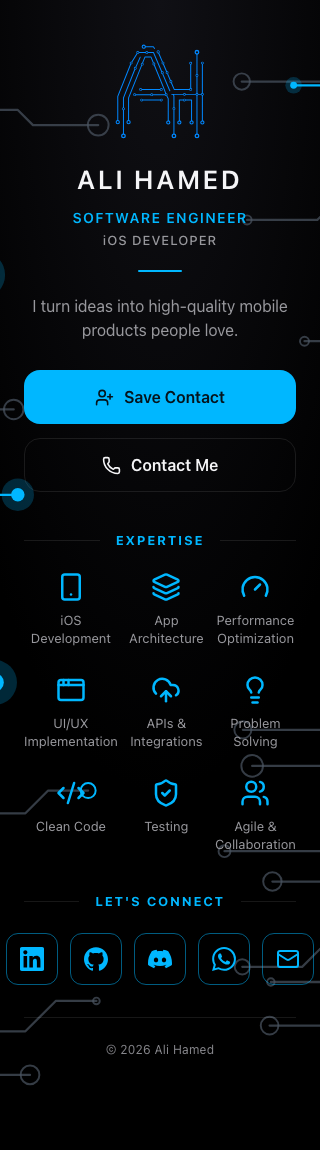
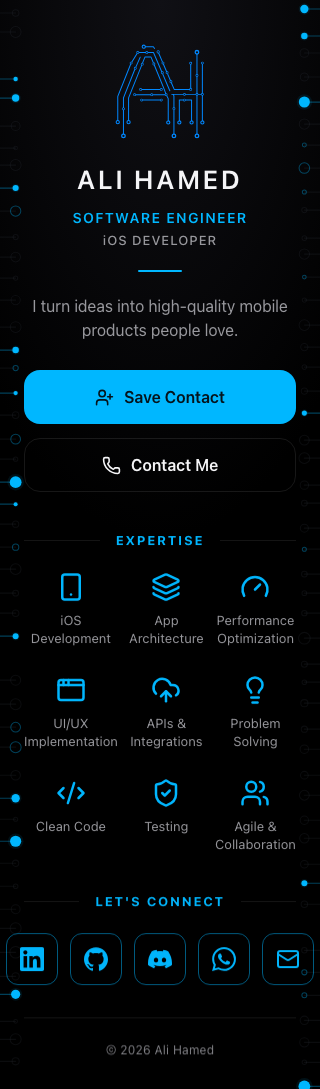
fix: keep the circuit-trace motif clear of the content column
The circuit background was crossing text, icons and buttons at every
tested width, with large glowing lit nodes intruding into the content
column from the left edge. Root causes:

- The motif's only "clear" zone was a fixed 14%-of-canvas-width band
  around the horizontal midpoint — far too narrow for a content column
  that spans nearly the full viewport on a phone.
- `.circuit` was `position: fixed`, tiled behind scrolling content, so
  a full-page capture (or a tall viewport) forced `preserveAspectRatio`
  to zoom/crop in ways that had nothing to do with where real content
  actually sat.
- Two independent "don't make traces absurdly short" floors inside the
  generator could silently push a trace (or a lit node's glow) past
  whatever clear boundary was requested.

Fixes:

- circuit.mjs: added an opt-in `contentClearX` exclusion zone (plus
  `glowOpacity`, `glowRadiusMultiplier`, `accentStrokeOpacity` knobs),
  fully backward-compatible — every existing default is unchanged, so
  all prior callers/tests are unaffected. Fixed the two length floors
  so a caller-supplied reach is always a hard cap, never overshot.
- site.mjs: renderCircuitBackground() now keys contentClearX to the
  page's real 24px content padding, and dials the motif down to a
  quiet, low-contrast texture matching the approved reference.
- styles.css: `.circuit` is now `position: absolute` (was `fixed`), so
  its local SVG coordinates map one-to-one onto the real, full-height
[…]

diff --git a/docs/index.html b/docs/index.html
@@ -26,7 +26,7 @@
 </head>
 <body>
 
-<div class="circuit"><svg xmlns="http://www.w3.org/2000/svg" preserveAspectRatio="xMidYMid slice" viewBox="0 0 390 844" role="img" aria-hidden="true"><g fill="none" stroke="#4B5563" stroke-width="1.2" stroke-opacity="0.7" stroke-linecap="round" stroke-linejoin="round"><path d="M0,13 L48,13 L60,1 L101.68002867579281,1" /><path d="M0,34 L48,34 L72,58 L120,58 L128,66 L162.4087724790377,66" /><path d="M0,56 L32,56 L44,44 L63.13527300221965,44" /><path d="M0,81 L32,81 L48,97 L68.77233359673589,97" /><path d="M0,100 L32,100 L48,116 L79.59656400065313,116" /><path d="M0,146 L32,146 L48,162 L70.77457107601091,162" /><path d="M0,169 L48,169 L64,185 L87.66577344656676,185" /><path d="M0,192 L56,192 L80,216 L117.82783785376105,216" /><path d="M0,282 L24,282 L40,266 L65.10471526400747,266" /><path d="M0,304 L32,304 L44,316 L67.70027021493108,316" /><path d="M0,322 L32,322 L48,338 L68.24823574767694,338" /><path d="M0,344 L32,344 L44,356 L70.55784634212911,356" /><path d="M0,391 L24,391 L40,375 L59.48062174079178,375" /><path d="M0,417 L64,417 L76,429 L124,429 L136,417 L157.0993279533194,417" /><path d="M0,435 L24,435 L40,419 L59.053062526052074,419" /><path d="M0,525 L40,525 L56,509 L78.6251532176886,509" /><path d="M0,551 L56,551 L72,567 L126.43009460040136,567" /><path d="M0,572 L48,572 L76,544 L124,544 L140,528 L161.44541232339952,528" /><path d="M0,592 L32,592 L44,580 L68,580 L76,572 L100.01812639110477,572" /><path d="M0,615 L24,615 L40,599 L62.82200495640864,599" /><path d="M0,636 L24,636 L36,648 L61.57691099579882,648" /><path d="M0,682 L40,682 L52,670 L84,670 L96,658 L117.03740299416715,658" /><path d="M0,708 L48,708 L64,692 L90.77275442222866,692" /><path d="M0,729 L48,729 L72,705 L92.66400030002656,705" /><path d="M0,749 L24,749 L40,733 L61.16180255088314,733" /><path d="M0,770 L32,770 L48,786 L80,786 L96,802 L115.39154656606121,802" /><path d="M0,793 L80,793 L92,805 L138.87233203641065,805" /><path d="M0,819 L40,819 L64,843 L90.8379831179431,843" /><path d="M0,839 L24,839 L36,851 L58.98665766346806,851" /><path d="M390,31 L358,31 L346,43 L325.4344848814311,43" /><path d="M390,55 L294,55 L282,43 L238.1186493660371,43" /><path d="M390,76 L342,76 L330,64 L298.92092453828434,64" /><path d="M390,124 L350,124 L334,108 L286,108 L278,116 L240.93530492513494,116" /><path d="M390,144 L342,144 L326,128 L300.6079686983694,128" /><path d="M390,168 L350,168 L326,192 L302,192 L290,180 L271.225802693519,180" /><path d="M390,187 L366,187 L354,199 L328.51616354389085,199" /><path d="M390,214 L366,214 L354,202 L330.1159570296989,202" /><path d="M390,233 L366,233 L354,221 L330.0409536912923,221" /><path d="M390,255 L358,255 L342,239 L319.8644474557856,239" /><path d="M390,281 L368.3270936150125,281 L360.3270936150125,289 L338.72709361501245,289 L330.72709361501245,281 L309.1270936150124,281" /><path d="M390,301 L358,301 L334,325 L306.38296795203433,325" /><path d="M390,369 L318,369 L302,385 L238.71934879735548,385" /><path d="M390,392 L302,392 L290,404 L243.62037618640633,404" /><path d="M390,414 L366,414 L354,426 L330.1109581218503,426 L322.1109581218503,434 L300.5109581218503,434" /><path d="M390,437 L302,437 L290,449 L229.025153552216,449" /><path d="M390,458 L350,458 L334,474 L309.9089230381595,474" /><path d="M390,478 L334,478 L314,498 L282,498 L270,510 L238.4049333150329,510" /><path d="M390,501 L350,501 L330,481 L298,481 L282,465 L254.29032274233208,465" /><path d="M390,526 L318,526 L310,518 L253.4842818629594,518" /><path d="M390,546 L342,546 L326,530 L303.7778480578015,530" /><path d="M390,569 L342,569 L326,553 L294,553 L282,541 L252.81751682831197,541" /><path d="M390,595 L342,595 L326,611 L298.97113576691345,611" /><path d="M390,619 L350,619 L330,639 L282,639 L270,627 L249.42478017400705,627" /><path d="M390,637 L358,637 L346,625 L318.5731716918707,625" /><path d="M390,680 L358,680 L334,656 L310,656 L298,644 L276.5433775155725,644" /><path d="M390,771 L358,771 L346,783 L309.763299342389,783" /><path d="M390,792 L334,792 L314,812 L263.02671227780417,812" /><path d="M390,817 L366,817 L346,837 L327.64220352223685,837" /><path d="M390,837 L350,837 L326,813 L300.9642817178028,813" /></g><g fill="none" stroke="#00B7FF" stroke-width="1.2" stroke-opacity="1" stroke-linecap="round" stroke-linejoin="round"><path d="M0,125 L56,125 L76,145 L100.70459883165658,145" /><path d="M0,233 L56,233 L84,261 L119.99354950564967,261" /><path d="M0,257 L40,257 L60,237 L88.92715002599024,237" /><path d="M0,368 L32,368 L52,348 L76,348 L88,360 L107.65614486288821,360" /><path d="M0,484 L40,484 L64,460 L91.77081584373043,460" /><path d="M0,506 L40,506 L52,518 L74.54682166366334,518" /><path d="M390,13 L350,13 L334,29 L302,29 L286,45 L265.49566458964307,45" /><path d="M390,349 L366,349 L354,337 L330,337 L322,345 L299.0466862090246,345" /><path d="M390,659 L302,659 L278,683 L259.2718732590201,683" /><path d="M390,706 L358,706 L342,722 L318,722 L306,734 L283.1608845693968,734" /><path d="M390,729 L358,729 L346,717 L325.57129348068736,717" /><path d="M390,748 L366,748 L354,736 L330.39174795192656,736" /></g><g fill="none" stroke="#4B5563" stroke-width="1.02" stroke-opacity="0.7"><circle cx="101.68002867579281" cy="1" r="3.9817908082902433" /><circle cx="162.4087724790377" cy="66" r="5.481969150424004" /><circle cx="63.13527300221965" cy="44" r="4.559958035230637" /><circle cx="68.77233359673589" cy="97" r="4.858938260525465" /><circle cx="79.59656400065313" cy="116" r="3.10109965762496" /><circle cx="70.77457107601091" cy="162" r="5.721537094652653" /><circle cx="87.66577344656676" cy="185" r="1.9829204328954222" /><circle cx="117.82783785376105" cy="216" r="5.140294172376394" /><circle cx="65.10471526400747" cy="266" r="5.798433054953814" /><circle cx="67.70027021493108" cy="316" r="3.9155605636239055" /><circle cx="68.24823574767694" cy="338" r="2.444076717138291" /><circle cx="70.55784634212911" cy="356" r="4.701549120694399" /><circle cx="59.48062174079178" cy="375" r="4.771910970389843" /><circle cx="59.053062526052074" cy="419" r="4.15421268850565" /><circle cx="78.6251532176886" cy="509" r="3.6985391626060014" /><circle cx="126.43009460040136" cy="567" r="4.943842837303877" /><circle cx="161.44541232339952" cy="528" r="1.7548870980441573" /><circle cx="100.01812639110477" cy="572" r="3.403082094848156" /><circle cx="62.82200495640864" cy="599" r="2.0439908123016357" /><circle cx="61.57691099579882" cy="648" r="3.682407308399678" /><circle cx="117.03740299416715" cy="658" r="4.720102139979602" /><circle cx="90.77275442222866" cy="692" r="4.4491424416601655" /><circle cx="92.66400030002656" cy="705" r="4.9883288137614725" /><circle cx="61.16180255088314" cy="733" r="2.8103994549214844" /><circle cx="115.39154656606121" cy="802" r="2.194100426226855" /><circle cx="138.87233203641065" cy="805" r="2.268632407665253" /><circle cx="90.8379831179431" cy="843" r="5.063935682058335" /><circle cx="58.98665766346806" cy="851" r="2.608212028741837" /><circle cx="325.4344848814311" cy="43" r="5.293011171698571" /><circle cx="238.1186493660371" cy="43" r="4.310792294293642" /><circle cx="298.92092453828434" cy="64" r="3.6217194148600105" /><circle cx="240.93530492513494" cy="116" r="2.3817786117196085" /><circle cx="300.6079686983694" cy="128" r="2.152133527815342" /><circle cx="271.225802693519" cy="180" r="2.3667143204212193" /><circle cx="328.51616354389085" cy="199" r="3.9692782317101956" /><circle cx="330.1159570296989" cy="202" r="5.192645388185978" /><circle cx="330.0409536912923" cy="221" r="4.295014541834593" /><circle cx="319.8644474557856" cy="239" r="3.7222315987050534" /><circle cx="309.1270936150124" cy="281" r="3.913470296144486" /><circle cx="306.38296795203433" cy="325" r="5.255108654737473" /><circle cx="238.71934879735548" cy="385" r="4.51102661061287" /><circle cx="243.62037618640633" cy="404" r="5.703381033092738" /><circle cx="300.5109581218503" cy="434" r="4.485425145059825" /><circle cx="229.025153552216" cy="449" r="3.1411987853944305" /><circle cx="309.9089230381595" cy="474" r="2.129527950435877" /><circle cx="238.4049333150329" cy="510" r="4.00273092404008" /><circle cx="254.29032274233208" cy="465" r="4.8618117255270485" /><circle cx="253.4842818629594" cy="518" r="1.9672340650856497" /><circle cx="303.7778480578015" cy="530" r="2.5454588972032073" /><circle cx="252.81751682831197" cy="541" r="4.674030567079783" /><circle cx="298.97113576691345" cy="611" r="3.702675475537777" /><circle cx="249.42478017400705" cy="627" r="5.160988283246756" /><circle cx="318.5731716918707" cy="625" r="5.4984487393498425" /><circle cx="276.5433775155725" cy="644" r="3.228817877680063" /><circle cx="309.763299342389" cy="783" r="3.487708266109229" /><circle cx="327.64220352223685" cy="837" r="5.409841947376729" /><circle cx="300.9642817178028" cy="813" r="2.2512800058424474" /></g><g fill="none" stroke="#00B7FF" stroke-width="1.02" stroke-opacity="1"><circle cx="157.0993279533194" cy="417" r="3.9668029183745386" /><circle cx="263.02671227780417" cy="812" r="5.64076228183508" /></g><g fill="#00B7FF" fill-opacity="0.22"><circle cx="100.70459883165658" cy="145" r="12.57965699365139" /><circle cx="119.99354950564967" cy="261" r="8.533815516901017" /><circle cx="88.92715002599024" cy="237" r="6.750373939204216" /><circle cx="107.65614486288821" cy="360" r="11.897380666351319" /><circle cx="91.77081584373043" cy="460" r="5.638164158034325" /><circle cx="74.54682166366334" cy="518" r="11.201690292048456" /><circle cx="265.49566458964307" cy="45" r="4.371685996055603" /><circle cx="299.0466862090246" cy="345" r="6.24049211704731" /><circle cx="259.2718732590201" cy="683" r="11.863928885507587" /><circle cx="283.1608845693968" cy="734" r="9.360875940585135" /><circle cx="325.57129348068736" cy="717" r="4.228054486298562" /><circle cx="330.39174795192656" cy="736" r="5.182904692912102" /></g><g fill="#00B7FF"><circle cx="100.70459883165658" cy="145" r="5.241523747354746" /><circle cx="119.99354950564967" cy="261" r="3.555756465375424" /><circle cx="88.92715002599024" cy="237" r="2.812655808001757" /><circle cx="107.65614486288821" cy="360" r="4.95724194431305" /><circle cx="91.77081584373043" cy="460" r="2.3492350658476355" /><circle cx="74.54682166366334" cy="518" r="4.66737095502019" /><circle cx="265.49566458964307" cy="45" r="1.8215358316898347" /><circle cx="299.0466862090246" cy="345" r="2.6002050487697126" /><circle cx="259.2718732590201" cy="683" r="4.943303702294828" /><circle cx="283.1608845693968" cy="734" r="3.9003649752438068" /><circle cx="325.57129348068736" cy="717" r="1.7616893692910673" /><circle cx="330.39174795192656" cy="736" r="2.159543622046709" /></g></svg></div>
+<div class="circuit"><svg xmlns="http://www.w3.org/2000/svg" preserveAspectRatio="xMidYMid slice" viewBox="0 0 320 1089" role="img" aria-hidden="true"><g fill="none" stroke="#4B5563" stroke-width="1.2" stroke-opacity="0.14" stroke-linecap="round" stroke-linejoin="round"><path d="M0,13 L15.684,13" /><path d="M0,32 L15.684,32" /><path d="M0,126 L15.684,126" /><path d="M0,148 L15.684,148" /><path d="M0,165 L15.684,165" /><path d="M0,211 L15.684,211" /><path d="M0,237 L15.684,237" /><path d="M0,257 L15.684,257" /><path d="M0,278 L15.684,278" /><path d="M0,300 L15.684,300" /><path d="M0,327 L15.684,327" /><path d="M0,368 L15.684,368" /><path d="M0,415 L15.684,415" /><path d="M0,439 L15.684,439" /><path d="M0,459 L15.684,459" /><path d="M0,524 L15.684,524" /><path d="M0,547 L15.684,547" /><path d="M0,569 L15.684,569" /><path d="M0,593 L15.684,593" /><path d="M0,613 L15.684,613" /><path d="M0,680 L15.684,680" /><path d="M0,704 L15.684,704" /><path d="M0,727 L15.684,727" /><path d="M0,747 L15.684,747" /><path d="M0,775 L15.684,775" /><path d="M0,819 L15.684,819" /><path d="M0,863 L15.684,863" /><path d="M0,886 L15.684,886" /><path d="M0,909 L15.684,909" /><path d="M0,928 L15.684,928" /><path d="M0,952 L15.684,952" /><path d="M0,976 L15.684,976" /><path d="M0,1021 L15.684,1021" /><path d="M0,1039 L15.684,1039" /><path d="M0,1061 L15.684,1061" /><path d="M320,53 L304.316,53" /><path d="M320,77 L304.316,77" /><path d="M320,124 L304.316,124" /><path d="M320,145 L304.316,145" /><path d="M320,168 L304.316,168" /><path d="M320,192 L304.316,192" /><path d="M320,210 L304.316,210" /><path d="M320,238 L304.316,238" /><path d="M320,254 L304.316,254" /><path d="M320,277 L304.316,277" /><path d="M320,300 L304.316,300" /><path d="M320,325 L304.316,325" /><path d="M320,347 L304.316,347" /><path d="M320,367 L304.316,367" /><path d="M320,391 L304.316,391" /><path d="M320,440 L304.316,440" /><path d="M320,458 L304.316,458" /><path d="M320,485 L304.316,485" /><path d="M320,503 L304.316,503" /><path d="M320,528 L304.316,528" /><path d="M320,549 L304.316,549" /><path d="M320,574 L304.316,574" /><path d="M320,593 L304.316,593" /><path d="M320,613 L304.316,613" /><path d="M320,638 L304.316,638" /><path d="M320,664 L304.316,664" /><path d="M320,682 L304.316,682" /><path d="M320,703 L304.316,703" /><path d="M320,729 L304.316,729" /><path d="M320,749 L304.316,749" /><path d="M320,775 L304.316,775" /><path d="M320,795 L304.316,795" /><path d="M320,820 L304.316,820" /><path d="M320,838 L304.316,838" /><path d="M320,864 L304.316,864" /><path d="M320,904 L304.316,904" /><path d="M320,950 L304.316,950" /><path d="M320,972 L304.316,972" /><path d="M320,995 L304.316,995" /><path d="M320,1020 L304.316,1020" /><path d="M320,1042 L304.316,1042" /><path d="M320,1062 L304.316,1062" /></g><g fill="none" stroke="#00B7FF" stroke-width="1.2" stroke-opacity="0.35" stroke-linecap="round" stroke-linejoin="round"><path d="M0,79 L15.684,79" /><path d="M0,98 L15.684,98" /><path d="M0,188 L15.684,188" /><path d="M0,350 L15.684,350" /><path d="M0,393 L15.684,393" /><path d="M0,482 L15.684,482" /><path d="M0,504 L15.684,504" /><path d="M0,636 L15.684,636" /><path d="M0,798 L15.684,798" /><path d="M0,841 L15.684,841" /><path d="M0,994 L15.684,994" /><path d="M320,9 L304.316,9" /><path d="M320,36 L304.316,36" /><path d="M320,102 L304.316,102" /><path d="M320,413 L304.316,413" /><path d="M320,883 L304.316,883" /><path d="M320,1086 L304.316,1086" /></g><g fill="none" stroke="#4B5563" stroke-width="1.02" stroke-opacity="0.14"><circle cx="15.684" cy="13" r="3.3071365234851835" /><circle cx="15.684" cy="32" r="5.408127812504769" /><circle cx="15.684" cy="126" r="4.484340687990189" /><circle cx="15.684" cy="148" r="1.7910568491518497" /><circle cx="15.684" cy="165" r="5.472939124614" /><circle cx="15.684" cy="237" r="2.5884640538692474" /><circle cx="15.684" cy="257" r="4.807083543062211" /><circle cx="15.684" cy="278" r="2.1082589237093927" /><circle cx="15.684" cy="300" r="4.626867743253709" /><circle cx="15.684" cy="327" r="5.444707045912742" /><circle cx="15.684" cy="415" r="3.2763067722022536" /><circle cx="15.684" cy="459" r="2.15952160102129" /><circle cx="15.684" cy="524" r="3.143829647362232" /><circle cx="15.684" cy="569" r="5.363363245636225" /><circle cx="15.684" cy="593" r="2.9090167930126194" /><circle cx="15.684" cy="613" r="3.277421800643206" /><circle cx="15.684" cy="680" r="5.015184781461954" /><circle cx="15.684" cy="704" r="5.436070772677661" /><circle cx="15.684" cy="775" r="4.761317828446627" /><circle cx="15.684" cy="819" r="2.0685557819902898" /><circle cx="15.684" cy="863" r="3.143334741264582" /><circle cx="15.684" cy="886" r="2.299623011469841" /><circle cx="15.684" cy="909" r="4.4504557763636114" /><circle cx="15.684" cy="928" r="5.498568041950465" /><circle cx="15.684" cy="952" r="5.797299343407154" /><circle cx="15.684" cy="976" r="3.6329535190165045" /><circle cx="15.684" cy="1021" r="1.838270763605833" /><circle cx="15.684" cy="1039" r="5.5137440522611145" /><circle cx="15.684" cy="1061" r="3.552745207428933" /><circle cx="304.316" cy="53" r="4.346409833103419" /><circle cx="304.316" cy="77" r="4.033861147105695" /><circle cx="304.316" cy="124" r="5.138403415918351" /><circle cx="304.316" cy="210" r="2.623242866098881" /><circle cx="304.316" cy="238" r="2.3798162748813634" /><circle cx="304.316" cy="254" r="5.13779839977622" /><circle cx="304.316" cy="300" r="2.106995860397816" /><circle cx="304.316" cy="325" r="5.335612830519676" /><circle cx="304.316" cy="347" r="3.6452402923107146" /><circle cx="304.316" cy="367" r="2.291789403676987" /><circle cx="304.316" cy="391" r="3.108966641664505" /><circle cx="304.316" cy="440" r="4.8357976590693" /><circle cx="304.316" cy="458" r="5.395229737669229" /><circle cx="304.316" cy="485" r="4.176309077739716" /><circle cx="304.316" cy="503" r="2.8588223886787896" /><circle cx="304.316" cy="528" r="4.001393023073674" /><circle cx="304.316" cy="574" r="2.819765031158924" /><circle cx="304.316" cy="593" r="2.3431158201098445" /><circle cx="304.316" cy="613" r="2.6681682913899425" /><circle cx="304.316" cy="638" r="5.820382678985596" /><circle cx="304.316" cy="664" r="2.995857643514872" /><circle cx="304.316" cy="682" r="2.3040789857804778" /><circle cx="304.316" cy="703" r="3.5932383002042774" /><circle cx="304.316" cy="729" r="3.100979522019625" /><circle cx="304.316" cy="749" r="4.2505998497307305" /><circle cx="304.316" cy="775" r="3.8567050129473217" /><circle cx="304.316" cy="795" r="4.898467903196812" /><circle cx="304.316" cy="820" r="4.1706182540953165" /><circle cx="304.316" cy="838" r="4.6663554180264475" /><circle cx="304.316" cy="864" r="3.800990423083306" /><circle cx="304.316" cy="904" r="3.2250318643748765" /><circle cx="304.316" cy="950" r="2.6766493071019655" /><circle cx="304.316" cy="1020" r="4.186178556919098" /><circle cx="304.316" cy="1042" r="4.624248487293721" /><circle cx="304.316" cy="1062" r="2.222643983781338" /></g><g fill="none" stroke="#00B7FF" stroke-width="1.02" stroke-opacity="0.35"><circle cx="15.684" cy="211" r="5.169861865460874" /><circle cx="15.684" cy="368" r="2.631073052376509" /><circle cx="15.684" cy="439" r="4.870390157550574" /><circle cx="15.684" cy="547" r="3.1644107488989834" /><circle cx="15.684" cy="727" r="4.865050856977701" /><circle cx="15.684" cy="747" r="5.505970575213433" /><circle cx="304.316" cy="145" r="1.9724675947129728" /><circle cx="304.316" cy="168" r="5.304901495724916" /><circle cx="304.316" cy="192" r="2.0218609760105615" /><circle cx="304.316" cy="277" r="1.8068499654829504" /><circle cx="304.316" cy="549" r="2.0278192639946937" /><circle cx="304.316" cy="972" r="2.5716878385543827" /><circle cx="304.316" cy="995" r="2.4778282260596756" /></g><g fill="#00B7FF" fill-opacity="0.09"><circle cx="15.684" cy="79" r="3.093029538452625" /><circle cx="15.684" cy="98" r="5.1719239327311515" /><circle cx="15.684" cy="188" r="4.26846975440383" /><circle cx="15.684" cy="350" r="4.536820252418518" /><circle cx="15.684" cy="393" r="2.946373759156466" /><circle cx="15.684" cy="482" r="8.248211575859784" /><circle cx="15.684" cy="504" r="2.7671957740545277" /><circle cx="15.684" cy="636" r="4.160137130731344" /><circle cx="15.684" cy="798" r="5.8538102206707014" /><circle cx="15.684" cy="841" r="7.852884261095523" /><circle cx="15.684" cy="994" r="6.421356325167419" /><circle cx="304.316" cy="9" r="5.779295518916847" /><circle cx="304.316" cy="36" r="4.5334941472113135" /><circle cx="304.316" cy="102" r="7.753683372420073" /><circle cx="304.316" cy="413" r="3.5885686998188495" /><circle cx="304.316" cy="883" r="4.182167372310161" /><circle cx="304.316" cy="1086" r="8.221510362929106" /></g><g fill="#00B7FF"><circle cx="15.684" cy="79" r="2.2093068131804467" /><circle cx="15.684" cy="98" r="3.6942313805222513" /><circle cx="15.684" cy="188" r="3.048906967431307" /><circle cx="15.684" cy="350" r="3.240585894584656" /><circle cx="15.684" cy="393" r="2.1045526851117615" /><circle cx="15.684" cy="482" r="5.891579697042704" /><circle cx="15.684" cy="504" r="1.9765684100389485" /><circle cx="15.684" cy="636" r="2.97152652195096" /><circle cx="15.684" cy="798" r="4.181293014764787" /><circle cx="15.684" cy="841" r="5.60920304363966" /><circle cx="15.684" cy="994" r="4.586683089405299" /><circle cx="304.316" cy="9" r="4.128068227797748" /><circle cx="304.316" cy="36" r="3.238210105150938" /><circle cx="304.316" cy="102" r="5.538345266014338" /><circle cx="304.316" cy="413" r="2.563263357013464" /><circle cx="304.316" cy="883" r="2.9872624087929727" /><circle cx="304.316" cy="1086" r="5.872507402092219" /></g></svg></div>
 
 <main class="card">
 

diff --git a/docs/styles.css b/docs/styles.css
@@ -49,14 +49,19 @@ body {
 
 /* ---- Circuit background ------------------------------------------------- */
 
-/* Pinned to the viewport and width-capped to the same column the card uses,
-   so the pattern always decorates the card rather than stretching across a
-   wide desktop window (which would blow the traces up far past their
-   authored stroke weight). It never competes with content: the motif itself
-   keeps a hard-clear band down the horizontal centre (src/lib/circuit.mjs),
-   which is exactly where the centred logo and type sit. */
+/* Spans the full document (not just one viewport) and scrolls with the
+   card's content, width-capped to the same column the card uses, so the
+   pattern always decorates the card rather than stretching across a wide
+   desktop window (which would blow the traces up far past their authored
+   stroke weight). `position: absolute` (not `fixed`) is deliberate: it ties
+   the motif's local SVG coordinates one-to-one to the actual document, so
+   the hard-clear exclusion zone keyed to the content column
+   (src/lib/circuit.mjs's contentClearX, wired up in renderCircuitBackground)
+   stays clear of the real header/buttons/grid/social/footer content at
+   every scroll position, not just whatever happened to be on-screen when
+   the page loaded. */
 .circuit {
-  position: fixed;
+  position: absolute;
   top: 0;
   bottom: 0;
   left: 50%;

diff --git a/src/styles.css b/src/styles.css
@@ -49,14 +49,19 @@ body {
 
 /* ---- Circuit background ------------------------------------------------- */
 
-/* Pinned to the viewport and width-capped to the same column the card uses,
-   so the pattern always decorates the card rather than stretching across a
-   wide desktop window (which would blow the traces up far past their
-   authored stroke weight). It never competes with content: the motif itself
-   keeps a hard-clear band down the horizontal centre (src/lib/circuit.mjs),
-   which is exactly where the centred logo and type sit. */
+/* Spans the full document (not just one viewport) and scrolls with the
+   card's content, width-capped to the same column the card uses, so the
+   pattern always decorates the card rather than stretching across a wide
+   desktop window (which would blow the traces up far past their authored
+   stroke weight). `position: absolute` (not `fixed`) is deliberate: it ties
+   the motif's local SVG coordinates one-to-one to the actual document, so
+   the hard-clear exclusion zone keyed to the content column
+   (src/lib/circuit.mjs's contentClearX, wired up in renderCircuitBackground)
+   stays clear of the real header/buttons/grid/social/footer content at
+   every scroll position, not just whatever happened to be on-screen when
+   the page loaded. */
 .circuit {
-  position: fixed;
+  position: absolute;
   top: 0;
   bottom: 0;
   left: 50%;
